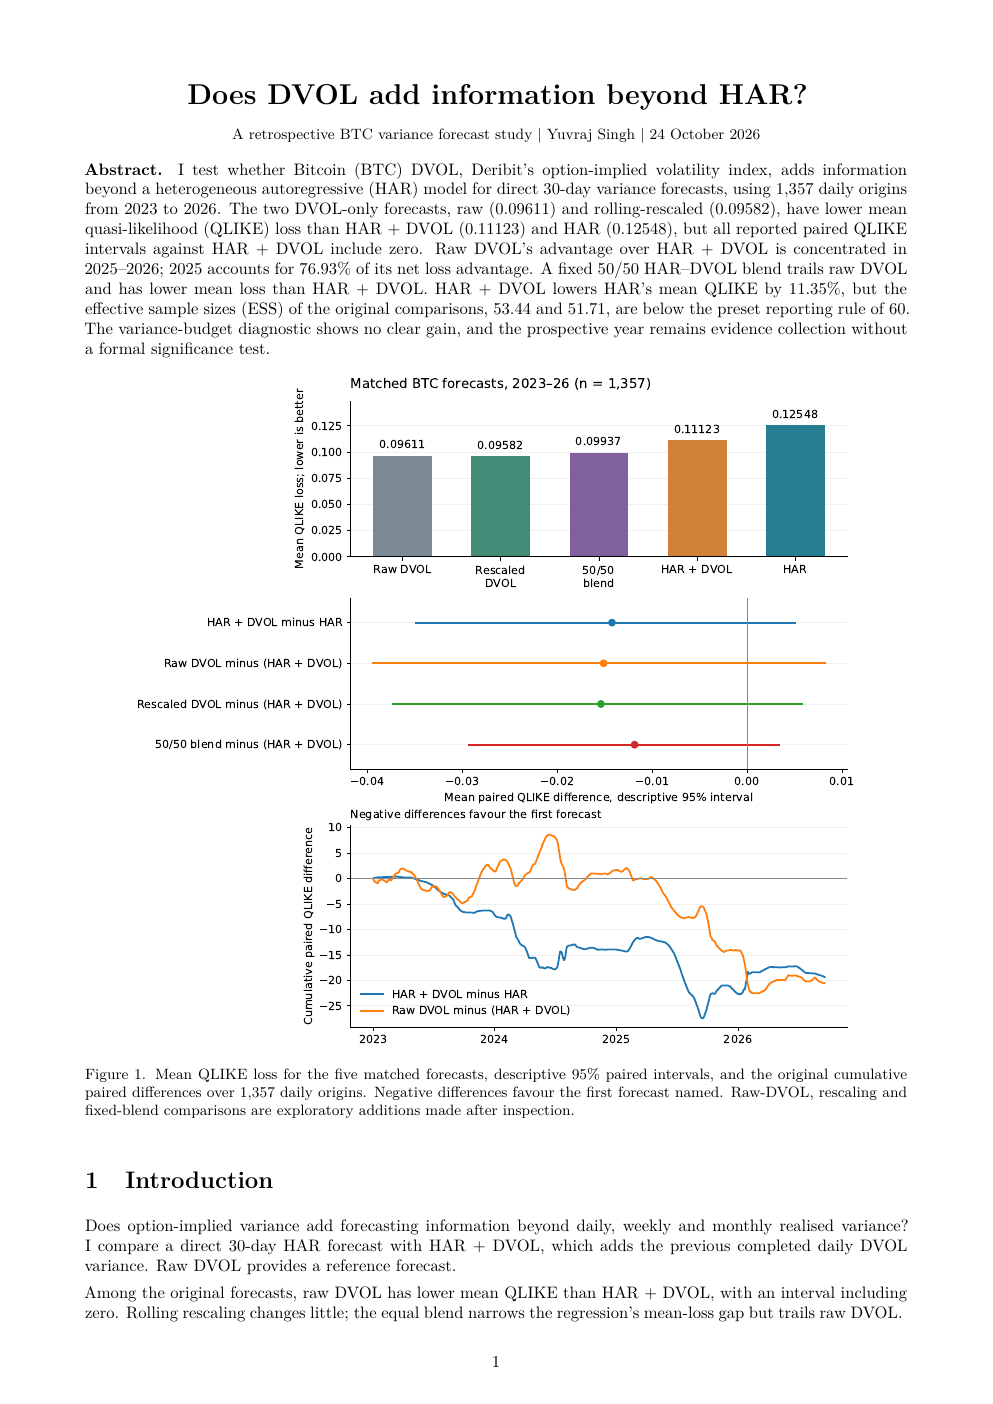
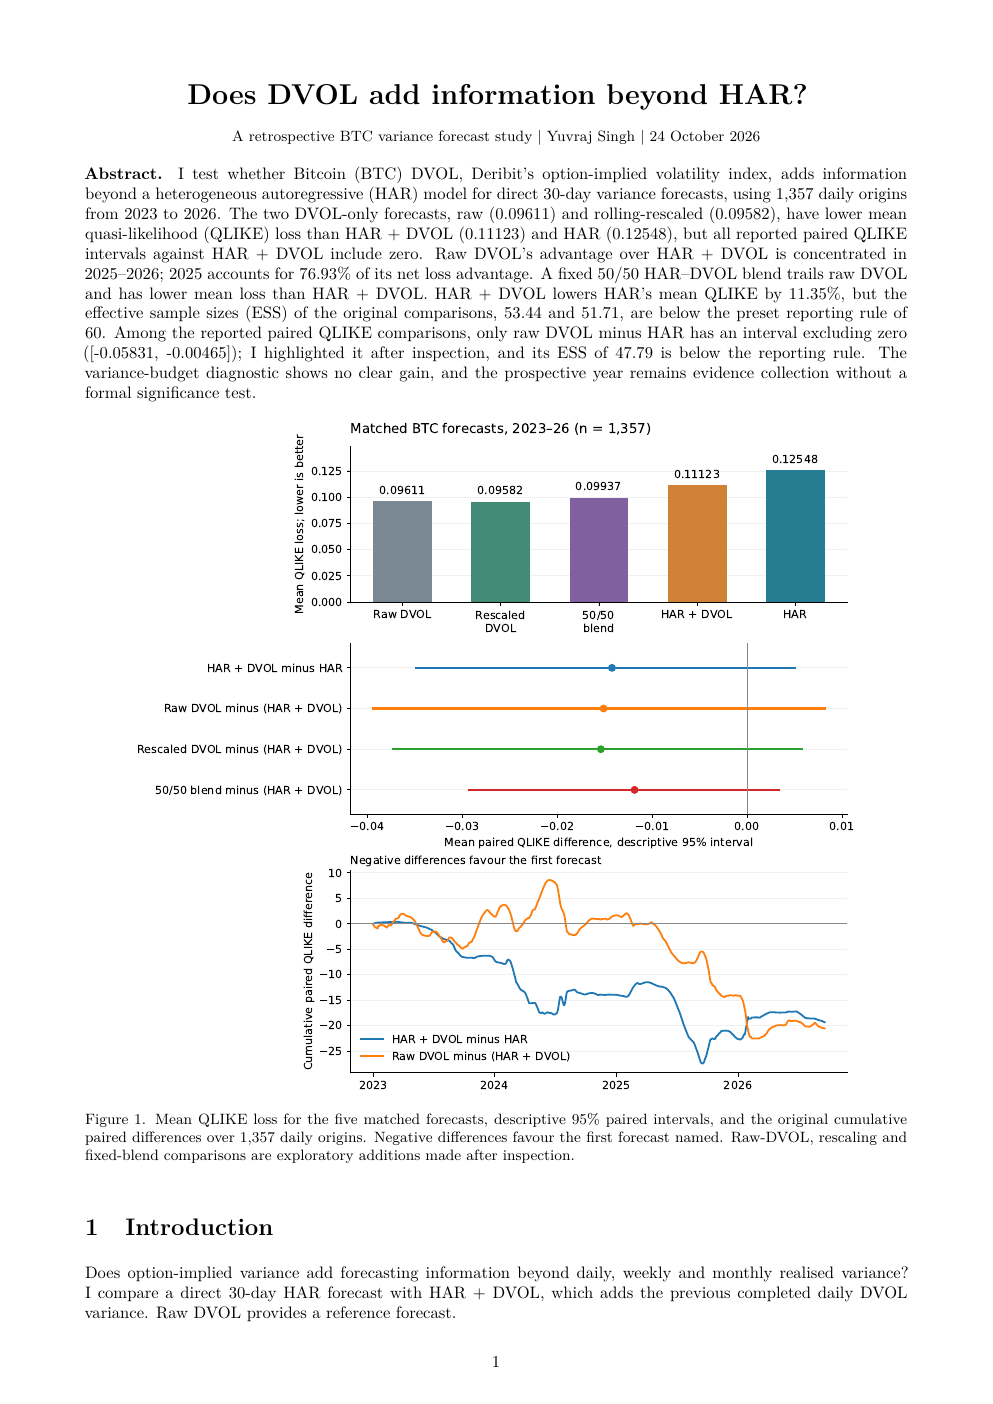
explain raw dvol inference in the abstract and paper

diff --git a/report/latex/main.tex b/report/latex/main.tex
@@ -468,7 +468,7 @@ EXECUTE {end.bib}
 \begin{center}{\LARGE\bfseries Does DVOL add information beyond HAR?\par}\end{center}
 \begin{center}\small A retrospective BTC variance forecast study | \PaperAuthor{} | \PaperDate{}\end{center}
 
-\textbf{Abstract.} I test whether Bitcoin (BTC) DVOL, Deribit's option-implied volatility index, adds information beyond a heterogeneous autoregressive (HAR) model for direct \HorizonDays{}-day variance forecasts, using \MatchedOrigins{} daily origins from \EvaluationStartYear{} to \EvaluationEndYear{}. The two DVOL-only forecasts, raw (\MeanQLIKEDvol{}) and rolling-rescaled (\MeanQLIKERescaled{}), have lower mean quasi-likelihood (QLIKE) loss than HAR + DVOL (\MeanQLIKEHardvol{}) and HAR (\MeanQLIKEHar{}), but all reported paired QLIKE intervals against HAR + DVOL include zero. Raw DVOL's advantage over HAR + DVOL is concentrated in \LeaveYearCYear{}--\LeaveYearDYear{}; \LeaveYearCYear{} accounts for \RawGainYearShare{}\% of its net loss advantage. A fixed \BlendPercent{}/\BlendPercent{} HAR--DVOL blend trails raw DVOL and has lower mean loss than HAR + DVOL. HAR + DVOL lowers HAR's mean QLIKE by \MeanLossReductionPercent{}\%, but the effective sample sizes (ESS) of the original comparisons, \RawPairedESS{} and \PairedLossEffectiveN{}, are below the preset reporting rule of \MinimumEffectiveN{}. The variance-budget diagnostic shows no clear gain, and the prospective year remains evidence collection without a formal significance test.
+\textbf{Abstract.} I test whether Bitcoin (BTC) DVOL, Deribit's option-implied volatility index, adds information beyond a heterogeneous autoregressive (HAR) model for direct \HorizonDays{}-day variance forecasts, using \MatchedOrigins{} daily origins from \EvaluationStartYear{} to \EvaluationEndYear{}. The two DVOL-only forecasts, raw (\MeanQLIKEDvol{}) and rolling-rescaled (\MeanQLIKERescaled{}), have lower mean quasi-likelihood (QLIKE) loss than HAR + DVOL (\MeanQLIKEHardvol{}) and HAR (\MeanQLIKEHar{}), but all reported paired QLIKE intervals against HAR + DVOL include zero. Raw DVOL's advantage over HAR + DVOL is concentrated in \LeaveYearCYear{}--\LeaveYearDYear{}; \LeaveYearCYear{} accounts for \RawGainYearShare{}\% of its net loss advantage. A fixed \BlendPercent{}/\BlendPercent{} HAR--DVOL blend trails raw DVOL and has lower mean loss than HAR + DVOL. HAR + DVOL lowers HAR's mean QLIKE by \MeanLossReductionPercent{}\%, but the effective sample sizes (ESS) of the original comparisons, \RawPairedESS{} and \PairedLossEffectiveN{}, are below the preset reporting rule of \MinimumEffectiveN{}. Among the reported paired QLIKE comparisons, only raw DVOL minus HAR has an interval excluding zero ([\RawHarLower{}, \RawHarUpper{}]); I highlighted it after inspection, and its ESS of \RawHarESS{} is below the reporting rule. The variance-budget diagnostic shows no clear gain, and the prospective year remains evidence collection without a formal significance test.
 
 \begin{figure}[!htbp]
 \centering
@@ -482,7 +482,7 @@ EXECUTE {end.bib}
 Does option-implied variance add forecasting information beyond daily, weekly and monthly realised variance? I compare a direct \HorizonDays{}-day HAR forecast with HAR + DVOL, which adds the previous completed daily DVOL variance. Raw DVOL provides a reference forecast.
 
 \begin{samepage}
-Among the original forecasts, raw DVOL has lower mean QLIKE than HAR + DVOL, with an interval including zero. Rolling rescaling changes little; the equal blend narrows the regression's mean-loss gap but trails raw DVOL.
+Among the original forecasts, raw DVOL has lower mean QLIKE than HAR + DVOL, with an interval including zero. Its paired interval against HAR excludes zero, but I highlighted that comparison after inspection and its ESS falls below the reporting rule. Rolling rescaling changes little; the equal blend narrows the regression's mean-loss gap but trails raw DVOL.
 \end{samepage}
 
 Prior work asks whether option-implied volatility adds information beyond historical volatility. \citet{christensenprabhala} find incremental information in implied volatility for the S\&P \SPIndex{} index using non-overlapping observations; their setting differs from the overlapping BTC targets here. \citet{corsi} combines realised-volatility components across time horizons in the HAR model, which I adapt to a direct variance target. \citet{patton} studies how imperfect volatility proxies affect forecast rankings and motivates care in choosing the loss function.
@@ -555,9 +555,9 @@ HAR & \MeanQLIKEHar{} & \HarAugmentedMean{} & [\HarAugmentedLower{}, \HarAugment
 \end{tabular}
 \end{table}
 
-Raw DVOL minus HAR has mean \RawHarMean{}, descriptive \ConfidencePercent{}\% interval [\RawHarLower{}, \RawHarUpper{}] and ESS \RawHarESS{}. I add this exploratory comparison to the paper after inspection. The interval excludes zero, but ESS is below the preset reporting rule of \MinimumEffectiveN{}, so I treat it as descriptive.
-
 Against HAR + DVOL, rescaled DVOL's ESS is \RescaledESS{}, above the \MinimumEffectiveN{} reporting rule, but its interval includes zero; the blend's \EqualESS{} is just below. Rescaled DVOL minus raw DVOL has mean \RescaledRawMean{} and interval [\RescaledRawLower{}, \RescaledRawUpper{}]. The equal blend minus raw DVOL has mean \EqualRawMean{} and interval [\EqualRawLower{}, \EqualRawUpper{}]. Rescaling barely changes the mean loss; the blend has lower mean loss than HAR + DVOL but higher mean loss than raw DVOL. All four rescaling and blend intervals include zero. The simpler rules therefore leave the cause of the original ranking unresolved.
+
+Raw DVOL minus HAR has mean \RawHarMean{}, descriptive \ConfidencePercent{}\% interval [\RawHarLower{}, \RawHarUpper{}] and ESS \RawHarESS{}. The original pipeline already computed this contrast, but I chose to highlight it after seeing the ranking, so this is a post-inspection highlight rather than a pre-declared test. Its interval excludes zero, but ESS is below the preset reporting rule of \MinimumEffectiveN{}, and the synthetic stress tests in Section~\ref{sec:inference} show ungated null rejection of \NullScenarioFRejectionPercent{}\% to \NullScenarioERejectionPercent{}\% at $n=\SimulationLongNGrouped{}$ against a nominal \NominalRejectionPercent{}\%. I therefore treat it as descriptive.
 
 QLIKE penalises a forecast too low by a factor $k>\Unit{}$ more than one too high by the same factor. I therefore check scale. Mean realised-to-forecast variance ratios are \MeanVarianceRatioTrailing{} for trailing variance over the previous \MonthlyDays{} days, \MeanVarianceRatioDvol{} for raw DVOL, \MeanVarianceRatioHar{} for HAR and \MeanVarianceRatioHardvol{} for HAR + DVOL. Each averages individual $V_t/\widehat V_t$ ratios, rather than dividing sample means. A single scalar equal to that mean minimises in-sample QLIKE. It lowers raw DVOL's in-sample mean from \MeanQLIKEDvol{} to \InSampleDvolQLIKE{} and HAR + DVOL's to \InSampleAugmentedQLIKE{}.
 
@@ -615,6 +615,7 @@ HAR + DVOL & \DecisionHardvolWeight{} & \DecisionHardvolBudgetError{} & \Decisio
 HAR + DVOL has a higher mean squared variance-budget error than HAR: the paired difference is \RiskLossMean{}, with interval [\RiskLossLower{}, \RiskLossUpper{}]. The interval includes zero, so this diagnostic leaves the benefit uncertain.
 
 \section{Inference limits}
+\label{sec:inference}
 
 Paired stationary-bootstrap inference uses \BootstrapDraws{} draws, a fixed seed and expected blocks of \ExpectedBlockDays{} days, with a \HACLags{}-lag heteroskedasticity- and autocorrelation-consistent (HAC) cross-check. Block sensitivities use \SensitivityThirtyDays{}, \SensitivityNinetyDays{}, \SensitivityOneEightyDays{} and \SensitivityYearDays{} days. Overlapping targets and rolling fits can create dependence beyond the \HorizonDays{}-day horizon. For each paired QLIKE difference series, ESS is the minimum of the observation count, an estimate from positive autocorrelation pairs constrained to decrease, and a variance-ratio estimate using the \HACLags{}-lag Newey--West long-run variance; the pair sequence stops at its first nonpositive pair. The existing plan fixes \MinimumEffectiveN{} as a minimum reporting rule to withhold confirmatory results when estimated information is limited; I retain it without tuning it to these results, but the study provides no size or power derivation that makes this cutoff sufficient for valid inference.
 
@@ -642,7 +643,7 @@ At $n=\SimulationShortN{}$, ungated null rejection ranges from \ShortNullMinimum
 
 \section{Limitations}
 
-\paragraph{Research choices.} I added the historical comparisons after inspecting the data. Chronological training does not remove that exposure to research choices. All historical findings and generated-forecast diagnostics are exploratory; the intervals are descriptive, and additional diagnostics are not primary discoveries. The mean QLIKE ranking establishes no formal superiority. Raw-DVOL, rescaling and fixed-blend comparisons all follow inspection. A one-parameter rolling fit still has estimation risk because its overlapping labels are dependent. The added intervals do not turn these mechanism checks into confirmatory tests.
+\paragraph{Research choices.} I added the historical comparisons after inspecting the data. Chronological training does not remove that exposure to research choices. All historical findings and generated-forecast diagnostics are exploratory; the intervals are descriptive, and additional diagnostics are not primary discoveries. The mean QLIKE ranking establishes no formal superiority. I chose to report the raw DVOL minus HAR comparison after inspection; the raw DVOL minus (HAR + DVOL), rescaling and fixed-blend comparisons also follow inspection. A one-parameter rolling fit still has estimation risk because its overlapping labels are dependent. The added intervals do not turn these mechanism checks into confirmatory tests.
 
 \paragraph{Data.} The original source check compares open, high, low and close (OHLC) fields. It fails because one unused DVOL open differs. All three audited DVOL closes match, but those dates cover little of the full history. I cannot verify the original unrevised data vintages from these historical downloads. One perpetual contract supplies a proxy for spot-index returns, so the study covers one asset and venue.
 
